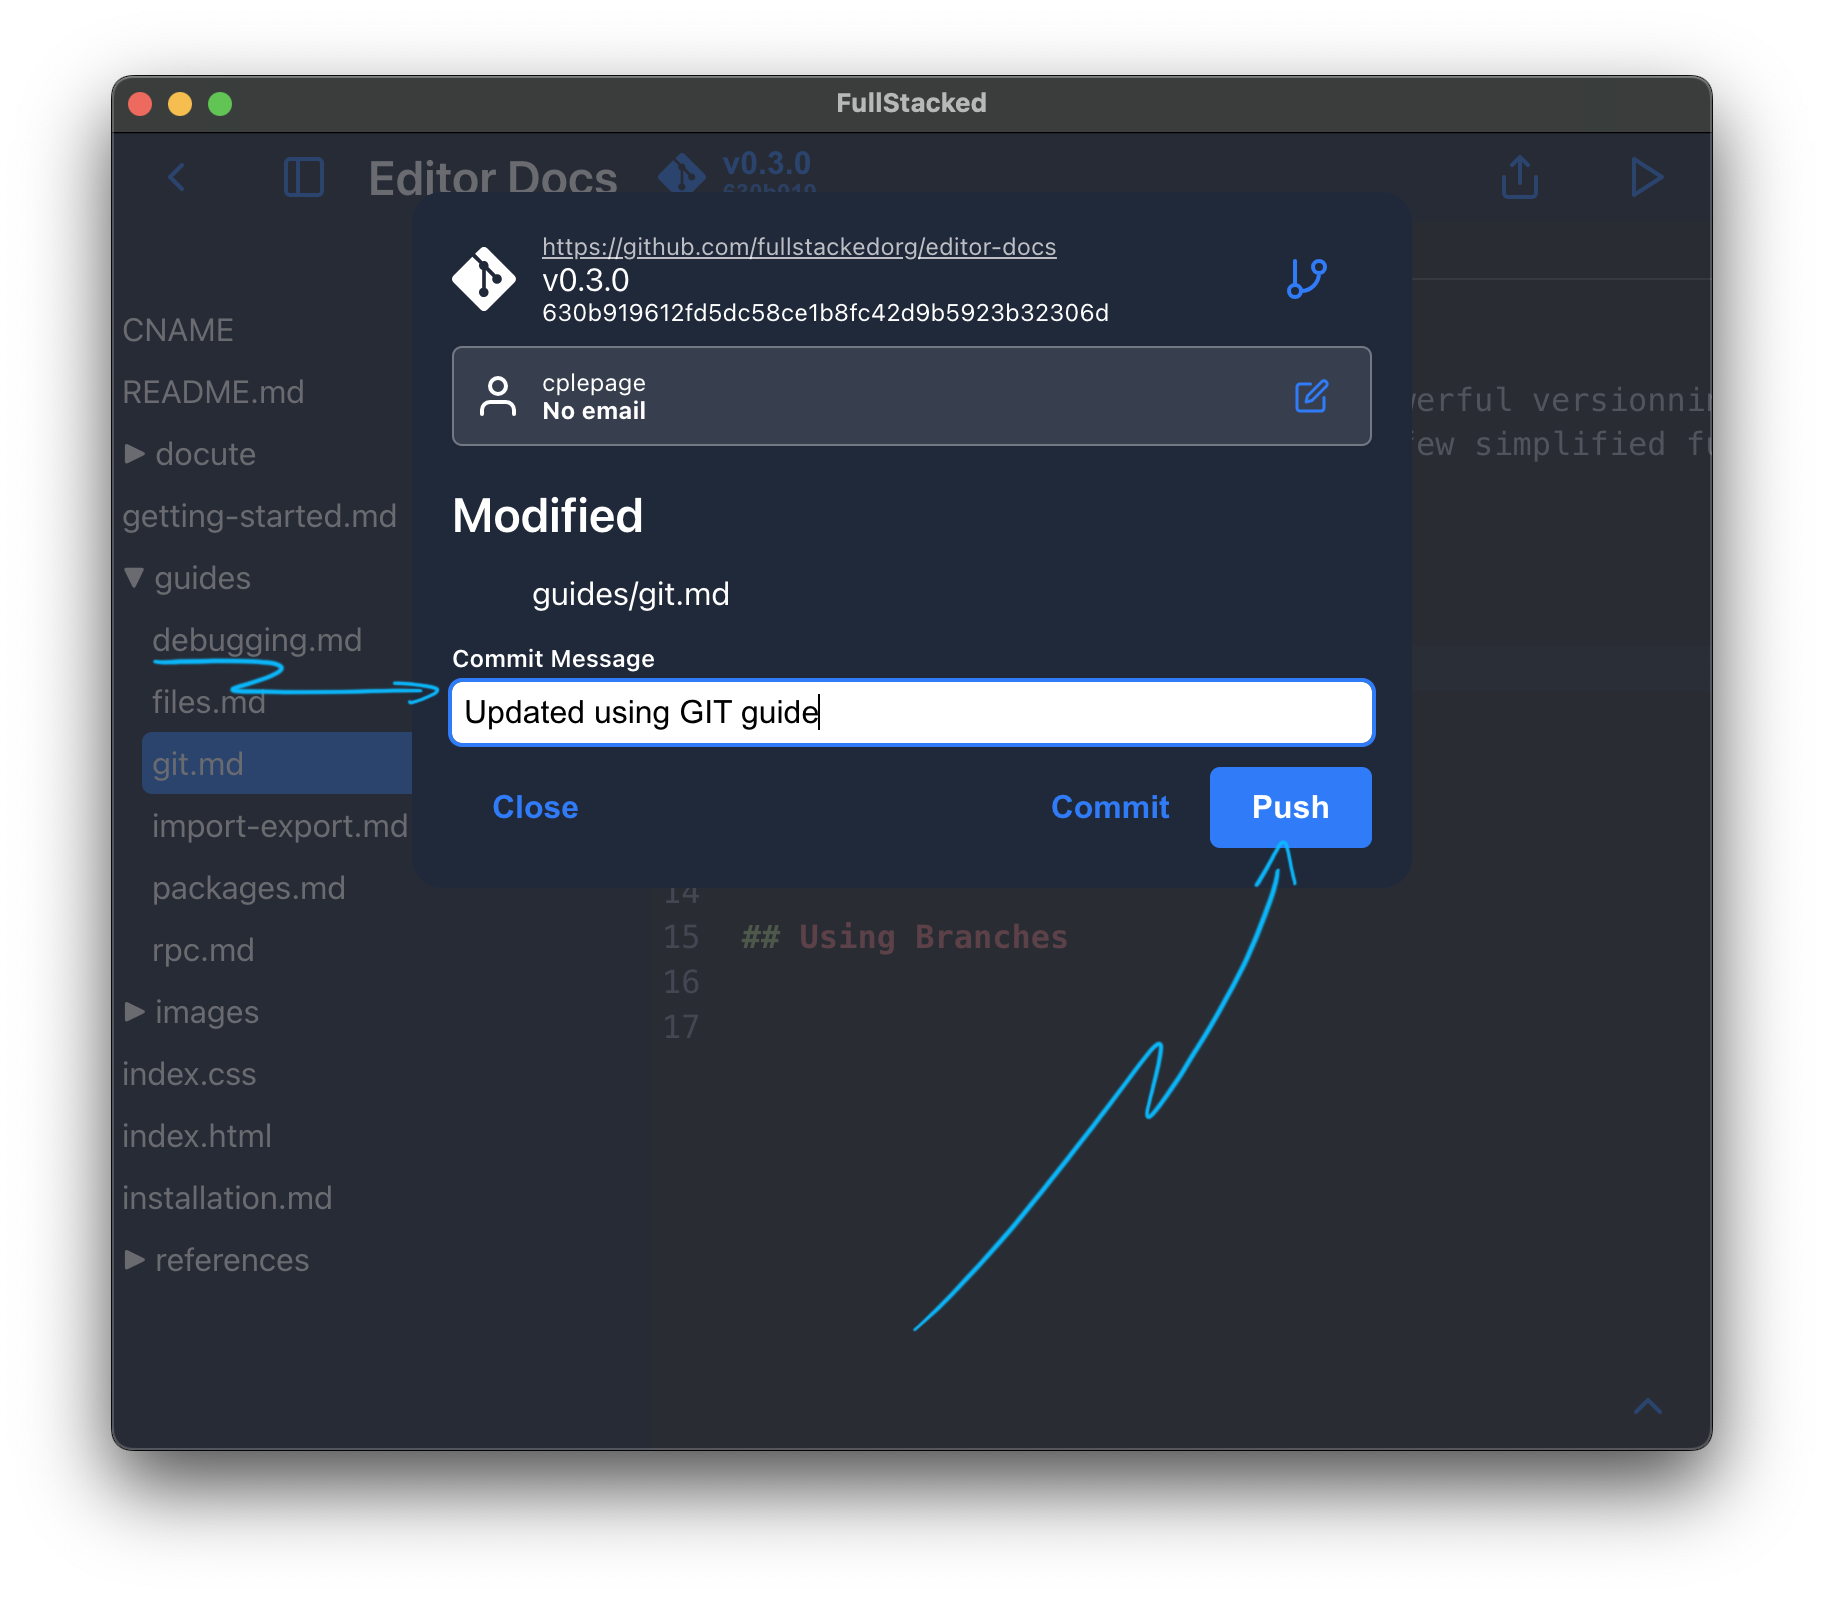
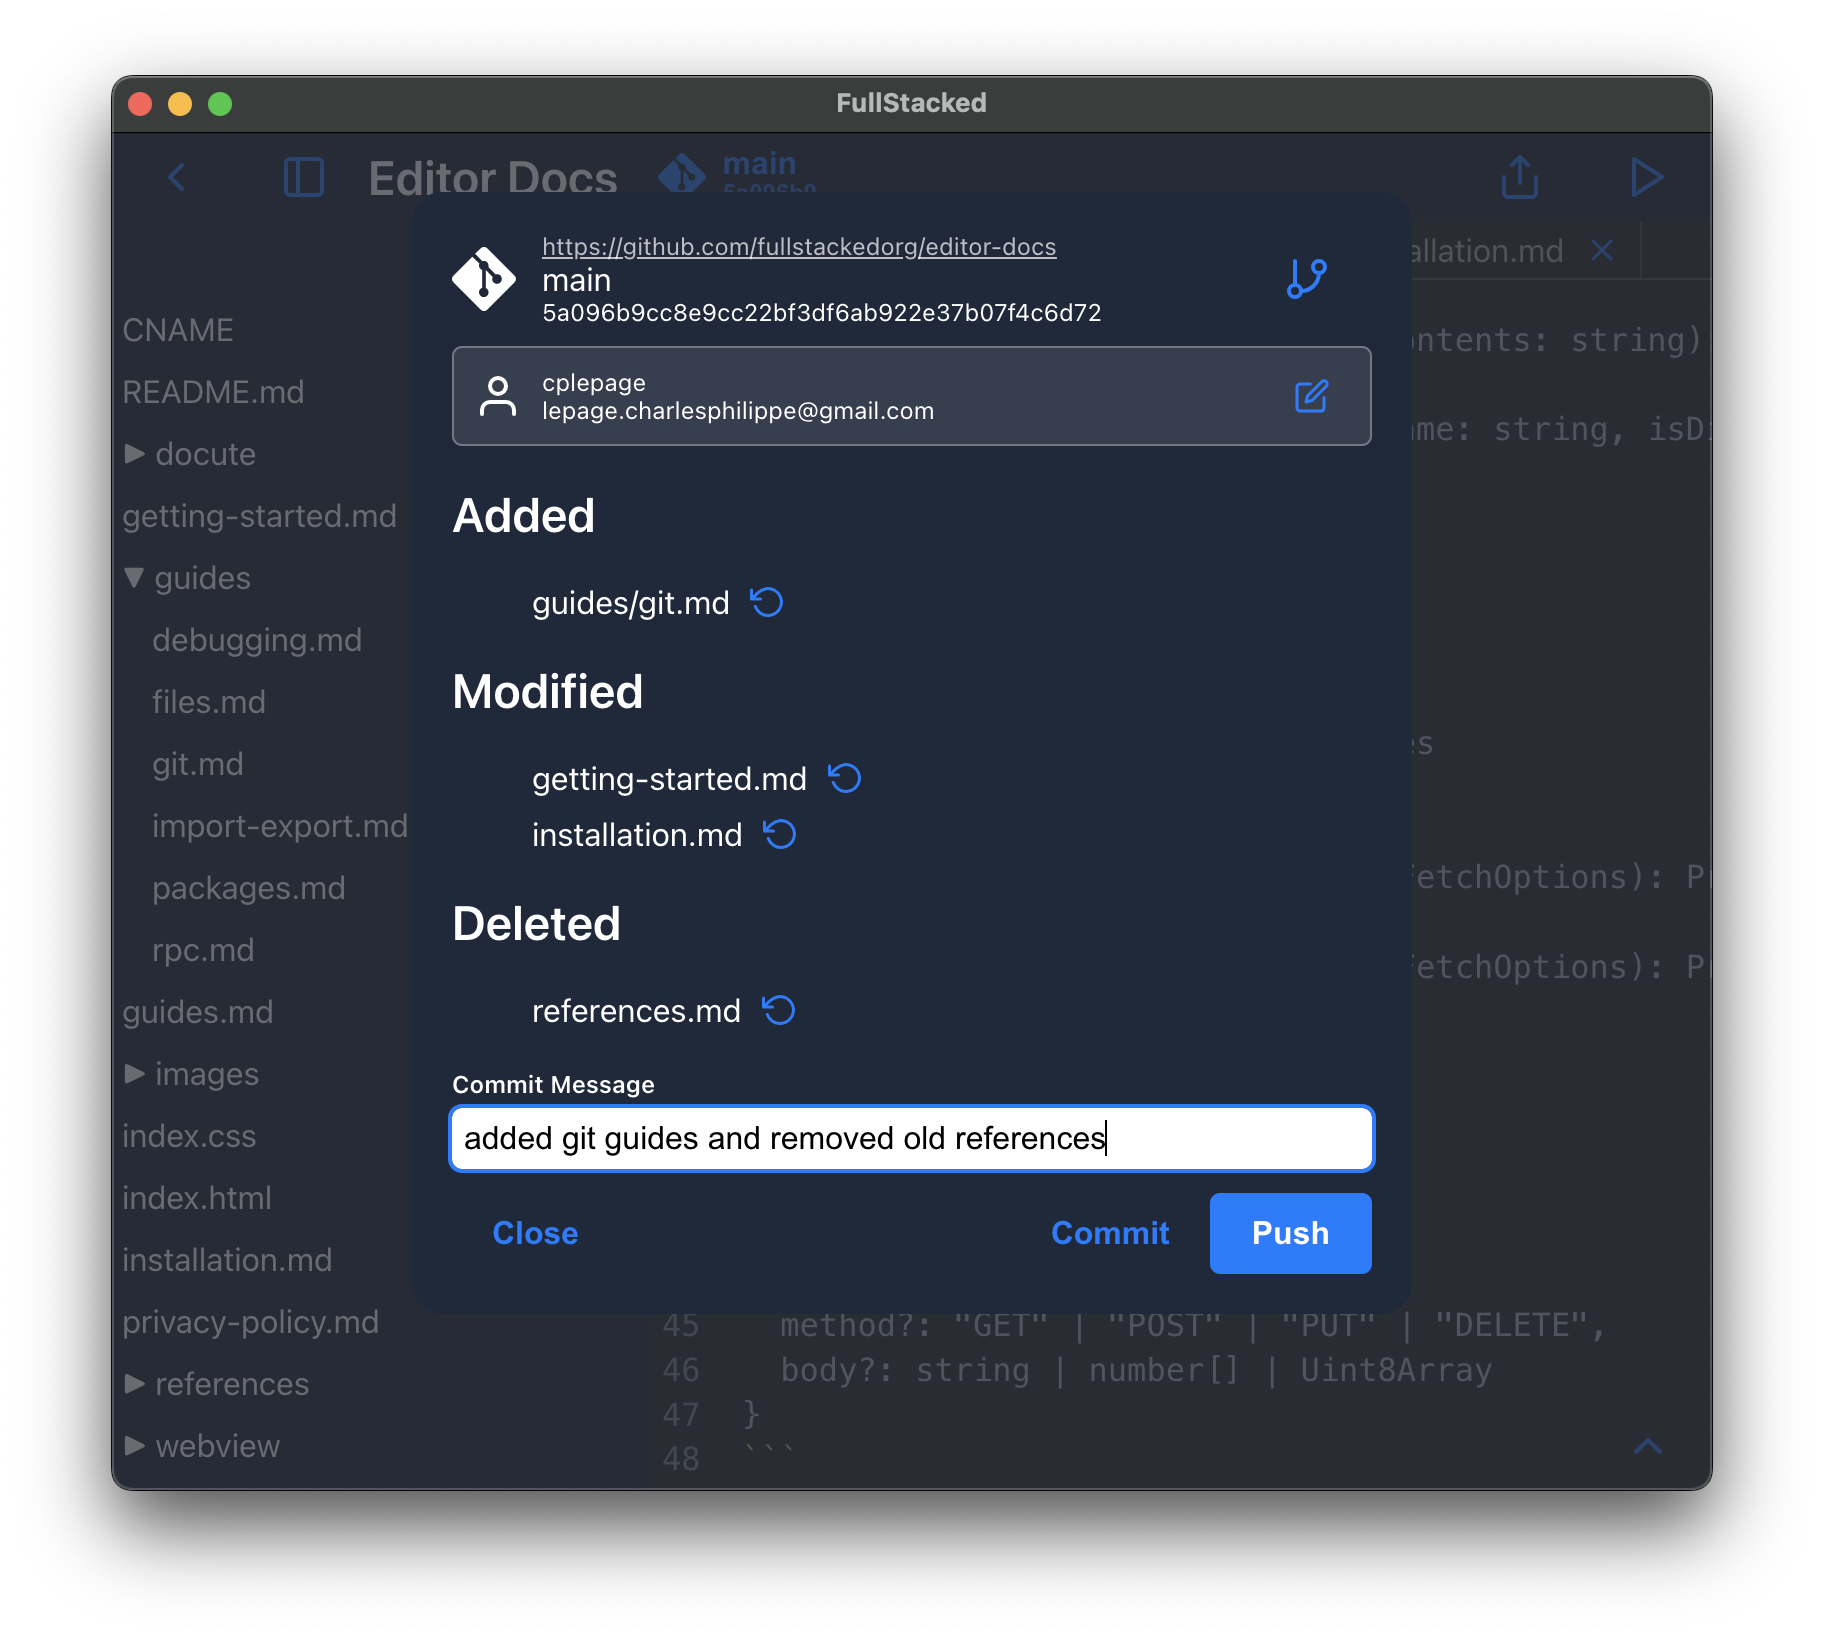
updated some images and completed git section with remote/local

diff --git a/guides/git.md b/guides/git.md
@@ -23,7 +23,8 @@ Click the git button in the top bar of the Project view.
 ![git Button](images/git/button.png)
 
 Changes are calculated and displayed there with a text input for your commit message.
-When ready, whether commit and/or push to your remote (the push button commits beforehand). 
+You can revert any unwanted changes and when ready, 
+whether commit and/or push to your remote (the push button commits beforehand). 
 
 ![git Committing](images/git/committing.png)
 
@@ -53,6 +54,8 @@ From here, you can see on which branch your are, create a new one and checkout o
 ![git Branches](images/git/branches.png)
 
 ### Remote-only, local-only and deleting branches
+
+![git Branches remote/local-only](images/git/remote-local-branches.png)
 
 * Branches that has never been checked out are labeled `remote-only`
 * Branches that has never been pushed to remote are labeled `local-only`
